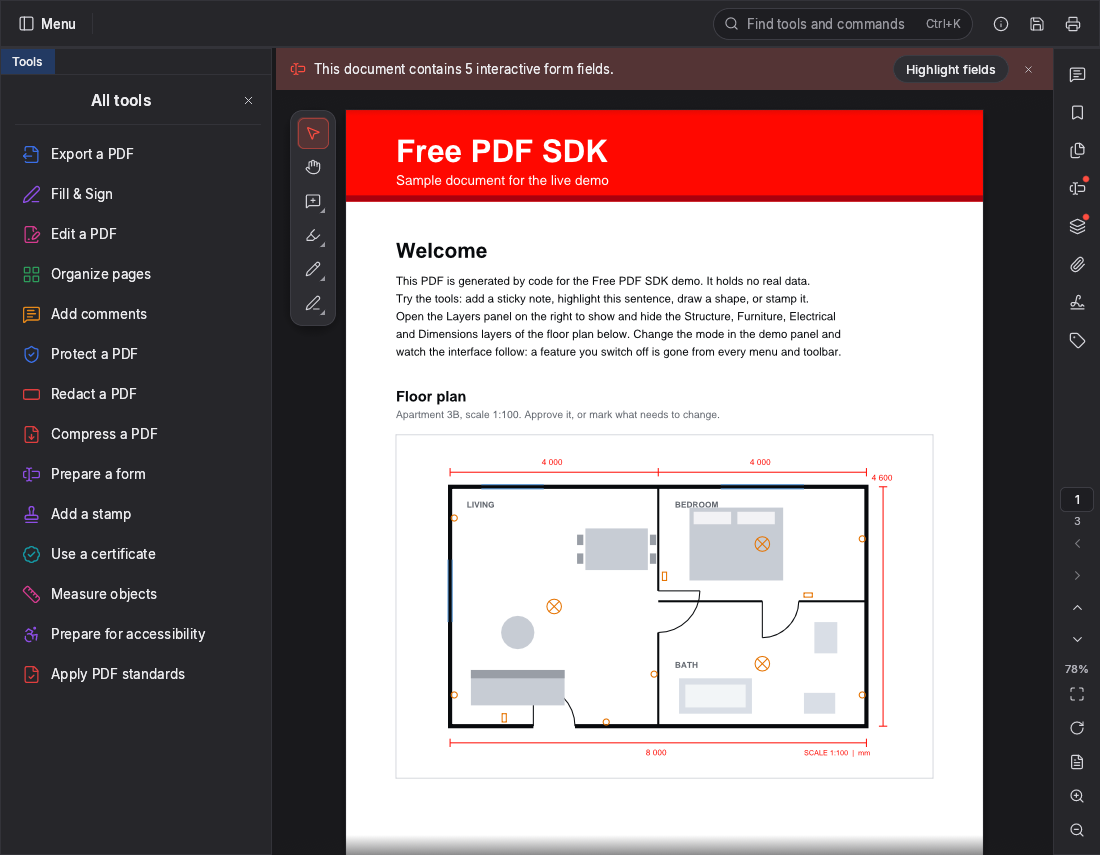
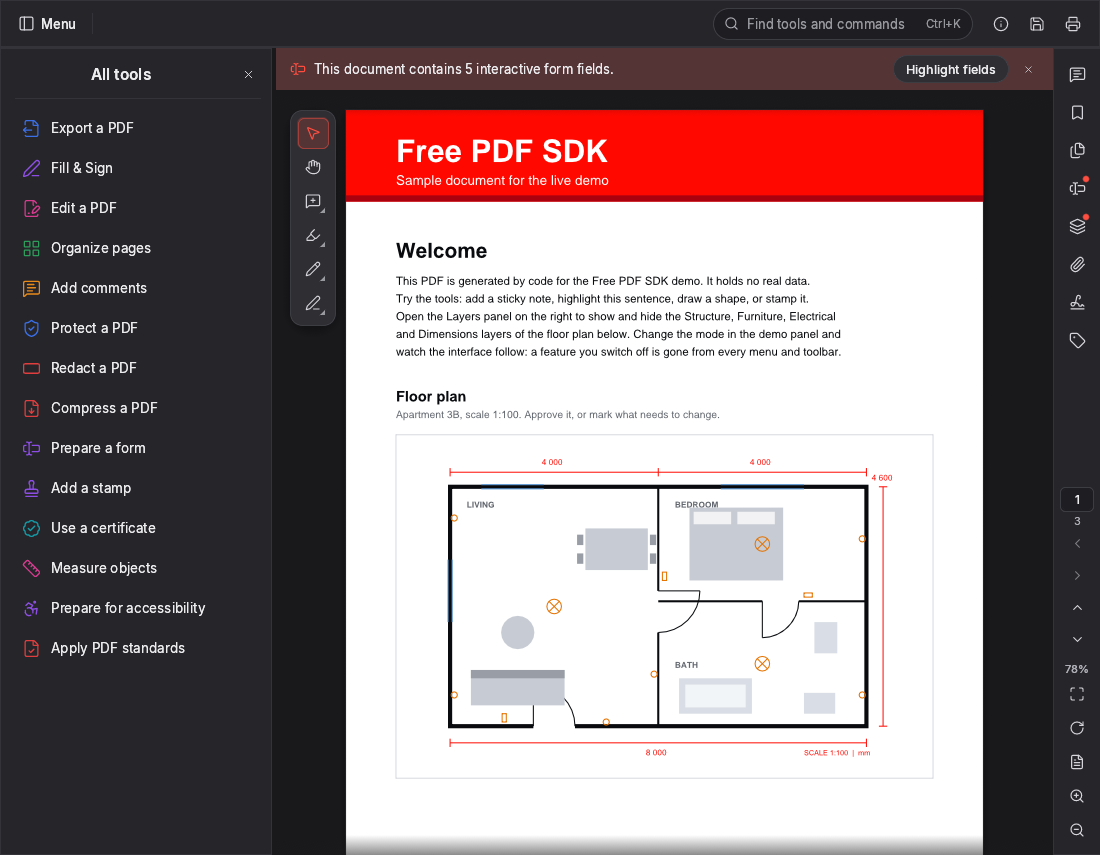
Update pdfcraft to upstream 88dad98d
Moves the pdfcraft pins to upstream 88dad98d (0.11.0 and later main) and
the fork's free-pdf-sdk/patches to 9e66e3c4 (tag fps-upstream-20261022-2).

From upstream: Prepare a form gains Calculation order and Text field
table (both under formDesign, whose description now names them); the
mode bar has no Read tab; the Tools panel has no tab strip when docked
alone; the Edit panel and Format text are laid out as Acrobat's; faster
PNG export and object-stream reading; Norwegian Bokmal. Wasm +616 KB.

Fork patches: five conflicts resolved keeping upstream's code under the
profile gates; the new Edit panel is gated too (with a test), and the
new form command, tool, edit and dialog are mapped to formDesign.

site/make-images.mjs: the Tools panel's close button moved up with the
tab strip, and a recorded consent choice keeps the banner out of shots.
Regenerated viewer-full images (the only ones that changed).

Changed region(s): [[0.0, 0.0608, 0.1855, 0.7906], [0.0, 0.0304, 0.0618, 0.0912]]

diff --git a/crates/core/src/features.rs b/crates/core/src/features.rs
@@ -46,7 +46,13 @@ pub const FEATURES: &[FeatureDoc] = &[
         "Typed text, checkmarks, crosses, dots, lines, dates, and drawn or typed signatures and initials placed on the page.",
     ),
     f("formFill", "Form filling", "Forms & signing", true, "Filling in form fields, clearing a form, importing and exporting form data."),
-    f("formDesign", "Form design", "Forms & signing", true, "Adding, editing and deleting form fields, tab order and field detection."),
+    f(
+        "formDesign",
+        "Form design",
+        "Forms & signing",
+        true,
+        "Adding, editing and deleting form fields, text field tables, tab and calculation order, and field detection.",
+    ),
     f("digitalSignatures", "Digital signatures", "Forms & signing", true, "Signing and certifying with a digital ID (certificate)."),
     f("signaturePanel", "Signature panel", "Forms & signing", false, "The signatures panel: viewing and validating existing digital signatures."),
     f("pages", "Page organization", "Pages & content", true, "Insert, delete, rotate, move, duplicate, crop, replace and number pages."),

diff --git a/third-party/pdfcraft/ATTRIBUTION.md b/third-party/pdfcraft/ATTRIBUTION.md
@@ -4,7 +4,7 @@
 
 Every asset PdfCraft includes, bundles or uses to build its published material, with its author, source and licence. The policy is in [AGENTS.md](AGENTS.md) §1. The machine-readable list, with SHA-256 hashes, is [ATTRIBUTION.toml](ATTRIBUTION.toml). Licence texts are kept beside the assets and summarised in [NOTICE](NOTICE).
 
-## In this repository (272)
+## In this repository (277)
 
 | Asset | Title | Author | Licence | Source | Used for |
 |---|---|---|---|---|---|
@@ -280,6 +280,11 @@ Every asset PdfCraft includes, bundles or uses to build its published material, 
 | `crates/ui-egui/src/i18n/vi.tsv` | Vietnamese interface translation catalog | PdfCraft contributors | MIT OR Apache-2.0 | Contributor-original: clean-room translations of PdfCraft's English UI labels; PhotoCraft and VectorCraft Vietnamese catalogs used only as translation memory when English source and semantic context matched; original catalog reviewed by a native Vietnamese-speaking contributor; 2026-10-15 coverage additions are AI-assisted and not separately native-reviewed | Vietnamese UI strings, compiled in by crates/ui-egui/src/i18n/mod.rs |
 | `crates/ui-egui/src/i18n/sl.tsv` | Slovene interface translation catalog | PdfCraft contributors | MIT OR Apache-2.0 | Contributor-original: clean-room translations of PdfCraft's English UI labels, no proprietary localisation resources | Slovene UI strings, compiled in by crates/ui-egui/src/i18n/mod.rs |
 | `vendor/vello_common/assets/probe.png` | vello_common probe reference image (rendered from probe.rgba) | Linebender vello contributors | MIT OR Apache-2.0 | vello_common 0.0.8 (crates.io), vendored in vendor/vello_common; regenerated by its vello_sparse_tests regenerate_probe_reference binary | Reference picture of the vendored vello_common probe module, for people only; the build reads probe.rgba, not this file |
+| `crates/ui-egui/src/i18n/nb.tsv` | Norwegian Bokmål interface translation catalog | PdfCraft contributors | MIT OR Apache-2.0 | Contributor-original: clean-room translations of PdfCraft's English UI labels, no proprietary localisation resources | Norwegian Bokmål UI strings, compiled in by crates/ui-egui/src/i18n/mod.rs |
+| `assets/icons/superscript.svg` | Lucide icon "superscript" | Lucide Contributors (portions Cole Bemis, Feather) | ISC | https://github.com/lucide-icons/lucide (npm lucide-static 1.49.0, icons/superscript.svg) | UI icon, embedded via crates/ui-egui/src/icon_data.rs |
+| `assets/icons/subscript.svg` | Lucide icon "subscript" | Lucide Contributors (portions Cole Bemis, Feather) | ISC | https://github.com/lucide-icons/lucide (npm lucide-static 1.49.0, icons/subscript.svg) | UI icon, embedded via crates/ui-egui/src/icon_data.rs |
+| `assets/icons/pilcrow.svg` | Lucide icon "pilcrow" | Lucide Contributors (portions Cole Bemis, Feather) | ISC | https://github.com/lucide-icons/lucide (npm lucide-static 1.49.0, icons/pilcrow.svg) | UI icon, embedded via crates/ui-egui/src/icon_data.rs |
+| `assets/icons/move-horizontal.svg` | Lucide icon "move-horizontal" | Lucide Contributors (portions Cole Bemis, Feather) | ISC | https://github.com/lucide-icons/lucide (npm lucide-static 1.49.0, icons/move-horizontal.svg) | UI icon, embedded via crates/ui-egui/src/icon_data.rs |
 
 ## Compiled in through dependencies (6)
 

diff --git a/CHANGELOG.md b/CHANGELOG.md
@@ -69,13 +69,27 @@ Version 0.2.0 (not released yet).
 - Redaction: "Remove hidden information" and "Sanitize document" now evaluate
   optional-content membership dictionaries (OCMDs) when they remove hidden layers, so content a
   document actually shows is kept and content it hides is removed; malformed visibility data is
-  treated conservatively
-  (pdfcraft 0.11.0).
+  treated conservatively (pdfcraft 0.11.0).
+- Rendering reads each object stream's index once instead of again for every object in it (pdfcraft).
+- PNG export is 3-5x faster for opaque pages, at the same file size (pdfcraft).
+
+### From pdfcraft, in the `formDesign` feature and the viewer layout
+
+- Prepare a form ▸ **Calculation order**: a page to read, check, fix and set the order calculated
+  fields run in. Renaming a field renames it in the calculations that read it.
+- Prepare a form ▸ **Text field table**: draw a grid of text fields (rows and columns) as one
+  edit.
+- The mode bar has no Read tab, as in Acrobat; Read mode stays a View command, and a read-only
+  configuration still pins the viewer to it.
+- The Edit panel and Format text are laid out as Acrobat's; the Tools panel has no tab strip
+  while docked on its own; Organize pages remembers its thumbnail size.
+- Norwegian Bokmål interface and date language.
 
 ### Based on
 
-- pdfcraft upstream `b1bf1cf01ff8d513a7a9bcb87d99933f2fb643f8` (0.11.0, was 0.10.0) with the
-  `free-pdf-sdk/patches` commits rebased onto it (exact commit in `version.json`).
+- pdfcraft upstream `88dad98dd478d255399b1405b33765f4da542704` (0.11.0 and later main; was
+  0.10.0) with the `free-pdf-sdk/patches` commits rebased onto it (exact commit in
+  `version.json`). The fork's profile gates now also cover the new Edit panel.
 
 ## [0.1.0] - 2026-10-20
 

diff --git a/third-party/README.md b/third-party/README.md
@@ -1,9 +1,9 @@
 # Third-party notices
 
 Free PDF SDK is built on [pdfcraft](https://github.com/storytold/pdfcraft) by the ArtCraft Team
-and the PdfCraft contributors (MIT OR Apache-2.0), at upstream commit `b1bf1cf01ff8d513a7a9bcb87d99933f2fb643f8`.
+and the PdfCraft contributors (MIT OR Apache-2.0), at upstream commit `88dad98dd478d255399b1405b33765f4da542704`.
 Free PDF SDK modifies pdfcraft's interface crate (pdfcraft-ui-egui) with opt-in hooks for
-white-label branding and for hiding features; the modified build is `0c76a50e9aa0642badd9b0792b8ce4019cd38dc0`
+white-label branding and for hiding features; the modified build is `9e66e3c4dacb5a2bcd7ac2a19cbfcd870ec13a65`
 (`pdfcraftRev` in `version.json`). The viewer's .wasm embeds the material below; each
 licence is in this folder. Generated by `scripts/collect-notices.mjs` — do not edit by hand.
 
